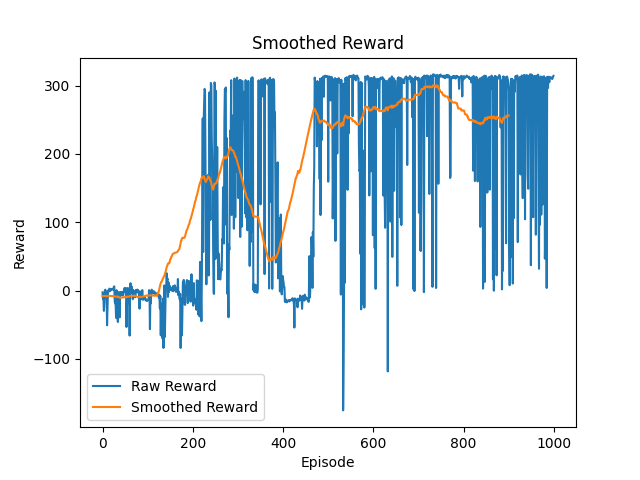
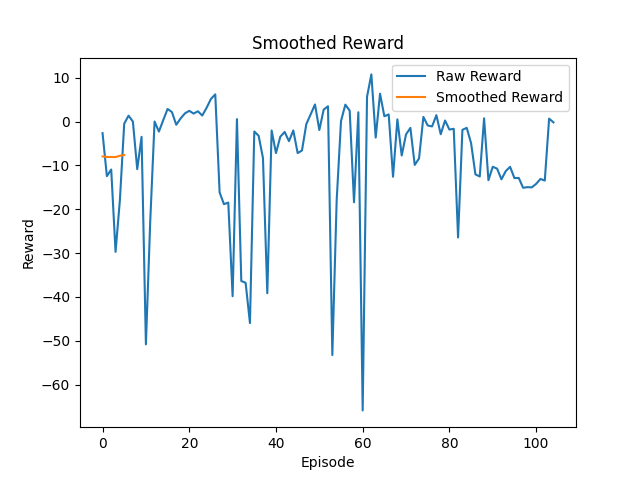
update_sac

diff --git a/note/SAC.md b/note/SAC.md
@@ -1,0 +1,68 @@
+## soft actor critic
+软演员-评论家 (SAC) 是一种采用actor-critic架构的off-policy算法，特别适合连续控制问题。由Google Brain和加州大学伯克利分校的研究团队同期开发，SAC采用了最大熵强化学习的原理。该框架修改了标准强化学习目标，旨在最大化预期累积奖励以及策略的熵，以促进代理更好地进行环境交互并增强其稳定性。
+
+### 最大熵目标
+标准强化学习的目标，通常是找到一个策略$\pi$，使其能最大化折扣奖励的预期总和：$$J(\pi) = \sum_{t=0}^{T}{E_{s_{t}, a_{t} \in \rho_{\pi}}\bigg[\gamma^{t} * r(s_{t}, a_{t})\bigg]}$$
+其中$\rho_{\pi}$是策略$\pi$产生的状态-动作边际分布。
+
+SAC在此目标中引入了一个熵项。策略旨在最大化奖励，同时尽可能随机地行动：$$J_{sac}(\pi) = \sum_{t=0}^{T}{E_{s_{t}, a_{t} \in \rho_{\pi}}\bigg[\gamma^{t} * r(s_{t}, a_{t}) + a * \mathcal{H}(\pi(\cdot|s_{t}))\bigg]}$$
+其中$\mathcal{H}(\pi(\cdot|s_{t})) = E_{a \in \pi(\cdot|s_{t})}\big[-\log\pi(a|s_{t})\big]$是策略$\pi$在状态$s_{t}$下的熵。温度参数$a$控制着熵项与奖励的相对重要性。较高的$a$促进更多的环境交互(更高的熵)，较低的$a$则优先考虑奖励最大化。
+
+这种熵最大化鼓励代理更广泛地进行环境交互，并避免过早收敛到次优的确定性策略。与DDPG等方法相比，这也使得算法对超参数的敏感度降低。
+
+### SAC 架构组成
+SAC 使用了多个神经网络，在理念上类似于TD3，但因最大熵目标和随机策略的使用而有所修改：
+1. 随机策略网络$\pi_{\phi}(a|s)$(actor)，与DDPG或TD3使用确定性actor进行主要策略评估不同，SAC使用随机actor。对于连续动作空间，该网络通常输出高斯分布的均值和标准差（或通过Tanh函数压缩的高斯分布来限制动作）。在训练和执行过程中，动作都从该分布中采样。经过优化参数$\phi$，以最大化SAC目标。
+2. Q函数网络$Q_{\theta_{1}}(s,a),Q_{\theta_{2}}(s,a)$(critic)，SAC 使用两个独立的Q网络，由$\theta_{1}$和$\theta_{2}$参数化，以减少Q值估计中的偏差。这种技巧借鉴自TD3。两个critic都经过训练以逼近soft-Q值，soft-Q值包含了未来动作的熵奖励。
+3. 目标网络$Q_{\theta_{1},t}(s,a),Q_{\theta_{2},t}(s,a)$，每个Q网络都维护对应的目标网络。这些目标使用Polyak平均（在线网络参数和当前目标参数的加权平均）缓慢更新，为Q函数更新提供了稳定的目标。$\theta_{t} \leftarrow \tau*\theta + (1-\tau)*\theta_{t}$，其中$\tau$是一个很小的数据。
+
+### 网络训练
+SAC采用off-policy，从存储在回放缓冲区$D$中采样一个batch_size的数据来更新网络，每个样本都是tuple：$(s_{i}, a_{i}, r_{i+1}, s_{i+1}, d)$。
+
+#### critic（Q函数）更新
+Q网络经过训练以最小化软贝尔曼残差，使用目标网络计算样本$(s_{i}, a_{i}, r_{i+1}, s_{i+1})$的目标值：$$y(r_{i},s_{i+1}) = r_{i} + \gamma * (1 - d) * \bigg(\min_{k=1,2}(Q_{\theta_{t,k}}(s_{i+1},a_{i+1})) - a * \log\pi_{\phi}(a_{i+1}|s_{i+1})\bigg)$$
+
+使用两个目标Q值的最小值，$(1 - d)$项处理终止状态，如果 $d$（完成）为真，则下一状态的值为零。每个Q网络的损失函数是均方贝尔曼误差（MSBE），通过梯度下降最小化：$$L_{Q}(\theta_{k}) = E_{(s_{i}, a_{i}, r_{i+1}, s_{i+1}, d) \in D}\bigg[(Q_{\theta_{k}}\big(s_{i}, a_{i}) - y(r_{i},s_{i+1})\big)^{2}\bigg]$$
+
+### actor更新
+策略网络$\phi$经过更新，希望能够最大化soft Q值与策略熵和的期望，一个常见的目标函数：$$L(\phi) = E_{s \in D, a \in \pi_{\phi}(\cdot|s)}\bigg[a * \log\pi_{\phi}(a|s) - min _{i=1,2}Q_{\theta_{i}}(s,a)\bigg]$$
+其中，动作$a$是根据回放缓冲区的状态$s$在当前策略$\pi_{\phi}$下采样得到的，期望值通过mini_batch_size数据近似计算。如果处理连续动作，梯度计算需要重参数化技巧。最小化损失函数策略选择那些能够带来高Q值，并且具有高熵值的动作。
+
+### 温度参数a更新
+温度参数$a$对性能影响很大，它平衡了奖励和熵目标。手动设置需要仔细调整，SAC的一个有点是它能够自动调整$a$。这是通过提出另一个优化问题来实现的，其中目标是维持目标熵水平$\mathcal{H}_{0}$。这个目标通常是启发式设定的，例如，设为动作空间的负维度：$\mathcal{H}_{0} = -| \mathcal{A}|$
+
+$a$的损失函数是：$L(a) = E_{a_{t} \in \pi_{t}(\cdot|s_{t})}\bigg[-a*\log\pi_{t}(a_{t}|s_{t}) - a*\mathcal{H}_{0}\bigg]$，通过梯度下降最小化此损失会调整$a$，使得如果策略的当前熵低于目标$\mathcal{H}_{0}$，则$a$减小，如果策略的当前熵高于目标$\mathcal{H}_{0}$，则$a$增加。
+
+### 算法概览
+1. 初始化策略网络$\pi_{\phi}$、Q网络$Q_{\theta_{1}}, Q_{\theta_{2}}$、目标网络$Q_{\theta_{1},t}(s,a),Q_{\theta_{2},t}(s,a)$和经验回放缓冲区$D$，初始化温度参数$a$。
+2. 对于每个环境步：
+    
+    a. 采样动作$a_{t} \in \pi_{\phi}(\cdot|s_{t})$;
+    
+    b. 执行动作$a_{t}$，观测奖励$r_{t}$和下一个状态$s_{t+1}$；
+    
+    c. 将样本$(s_{t}, a_{t}, r_{t}, s_{t+1})$存放到$D$中。
+3. 对于每个梯度步（通常每个环境步有多个梯度步）：
+
+    a. 从$D$中采样一个mini_batch_size的样本$B = {(s,a,r,s^{'}, d)}$。
+    
+    b. 使用目标网络、策略采样$a^{'} \in \pi_{\phi}(\cdot|s^{'})$，计算Q目标$y$。
+    
+    c. 通过最小化$L_{Q}(\theta_{i})$更新Q函数的参数$\theta_{1}，\theta_{2}$。
+    
+    d. 通过最小化$L_{\pi}(\phi)$更新策略$\phi$。这需要从策略中采样$a \in \pi_{\phi}(\cdot|s)$。
+    
+    e. 如果自动调整$a$，则通过最小化$L(a)$更新$a$。 
+    
+    f. 更新目标网络:$Q_{\theta_{i},t}(s,a) \leftarrow \tau* \theta_{i} + (1-\tau) * Q_{\theta_{i},t}(s,a)$
+
+
+SAC的优点：
+
+- 样本效率： 作为一种离策略算法，SAC 可以有效地从回放缓冲区复用数据，与PPO或A2C等在线策略方法相比，这通常会带来更好的样本效率，尤其是在复杂、高维度的连续控制任务中。
+
+- 稳定性： 裁剪双Q学习、目标网络的使用，特别是熵最大化框架，有助于实现比DDPG等算法更稳定的学习。自动温度调整通过调整环境交互/利用平衡进一步提高了稳定性。
+
+- 环境交互： 熵项明确鼓励代理进行环境交互。这种内置的环境交互机制可能非常有效，尤其是在奖励稀疏或动态复杂的任务中，朴素的环境交互策略可能失效。
+
+- 性能： SAC 在广泛的连续控制基准测试中展现出先进的性能，例如在MuJoCo或PyBullet中发现的那些。
